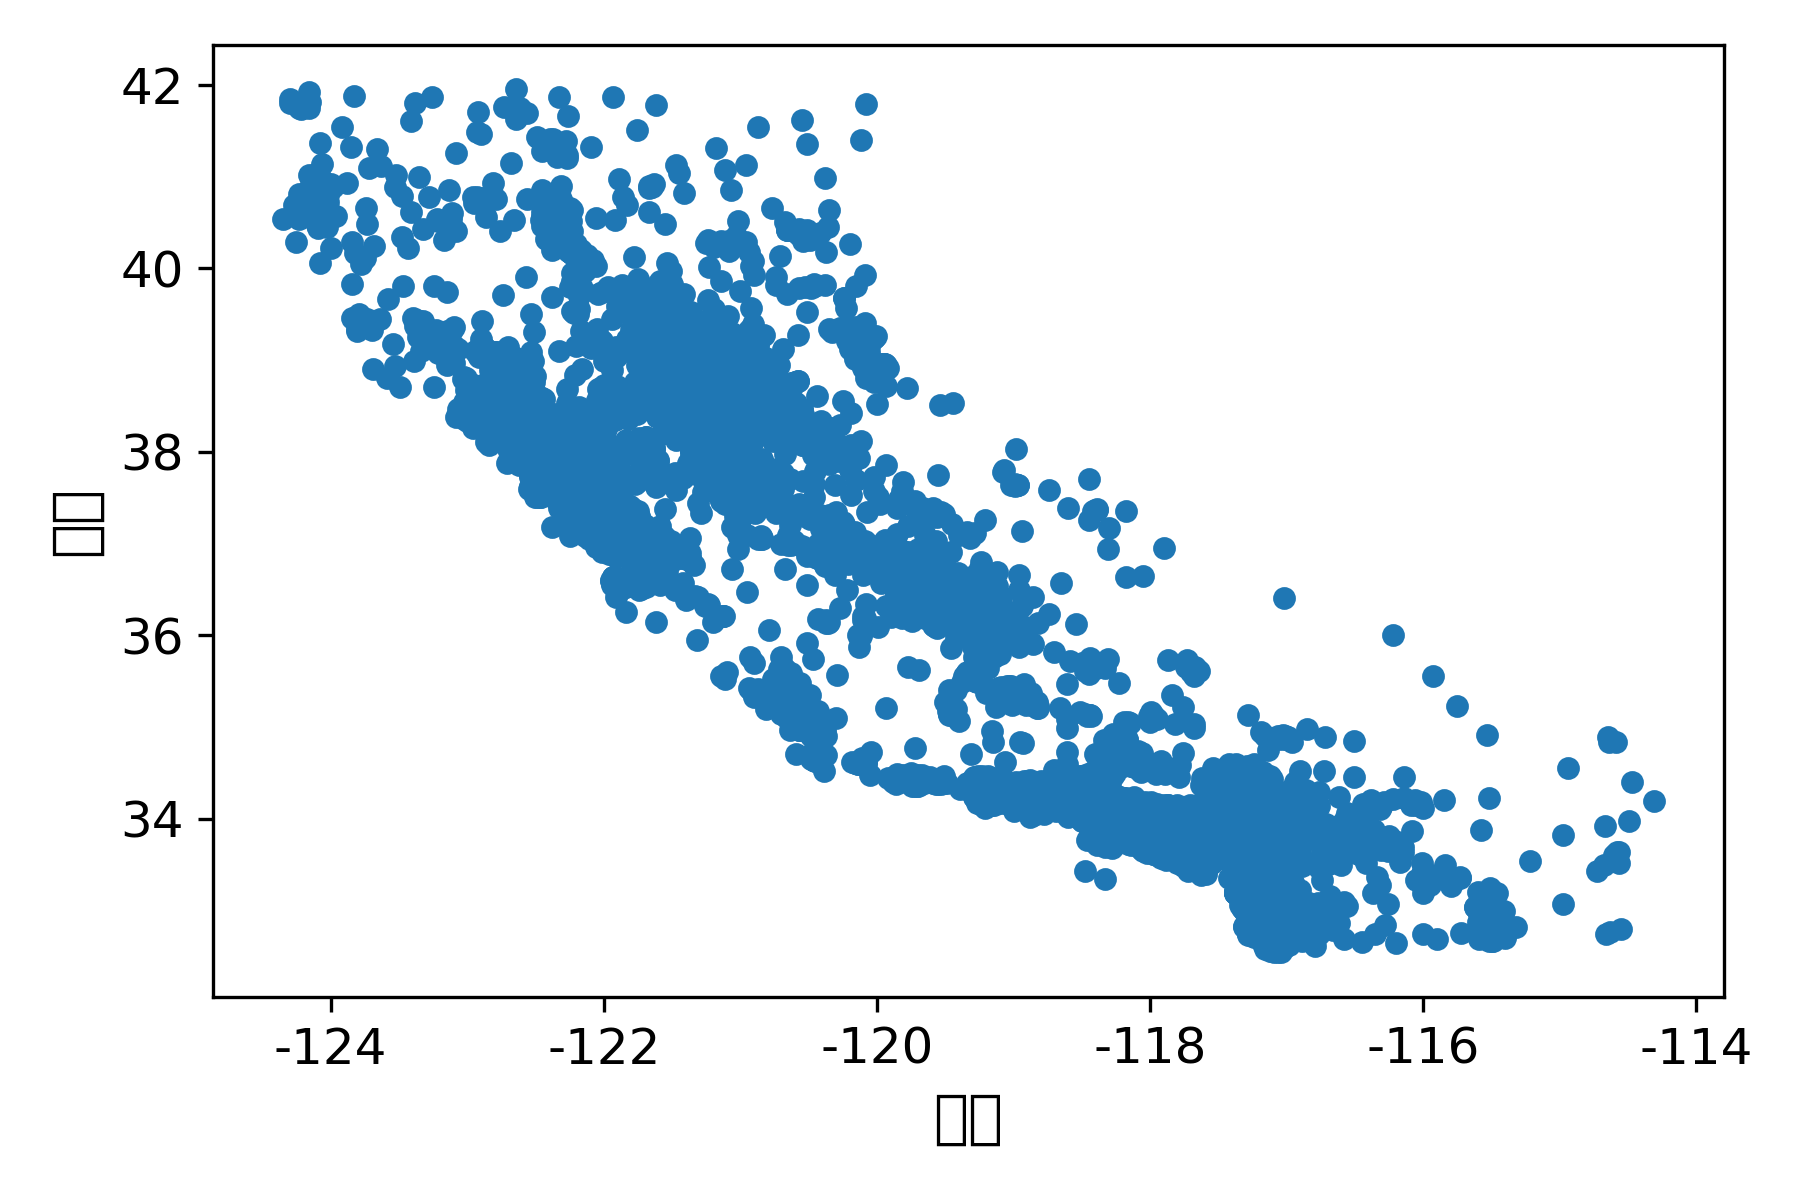
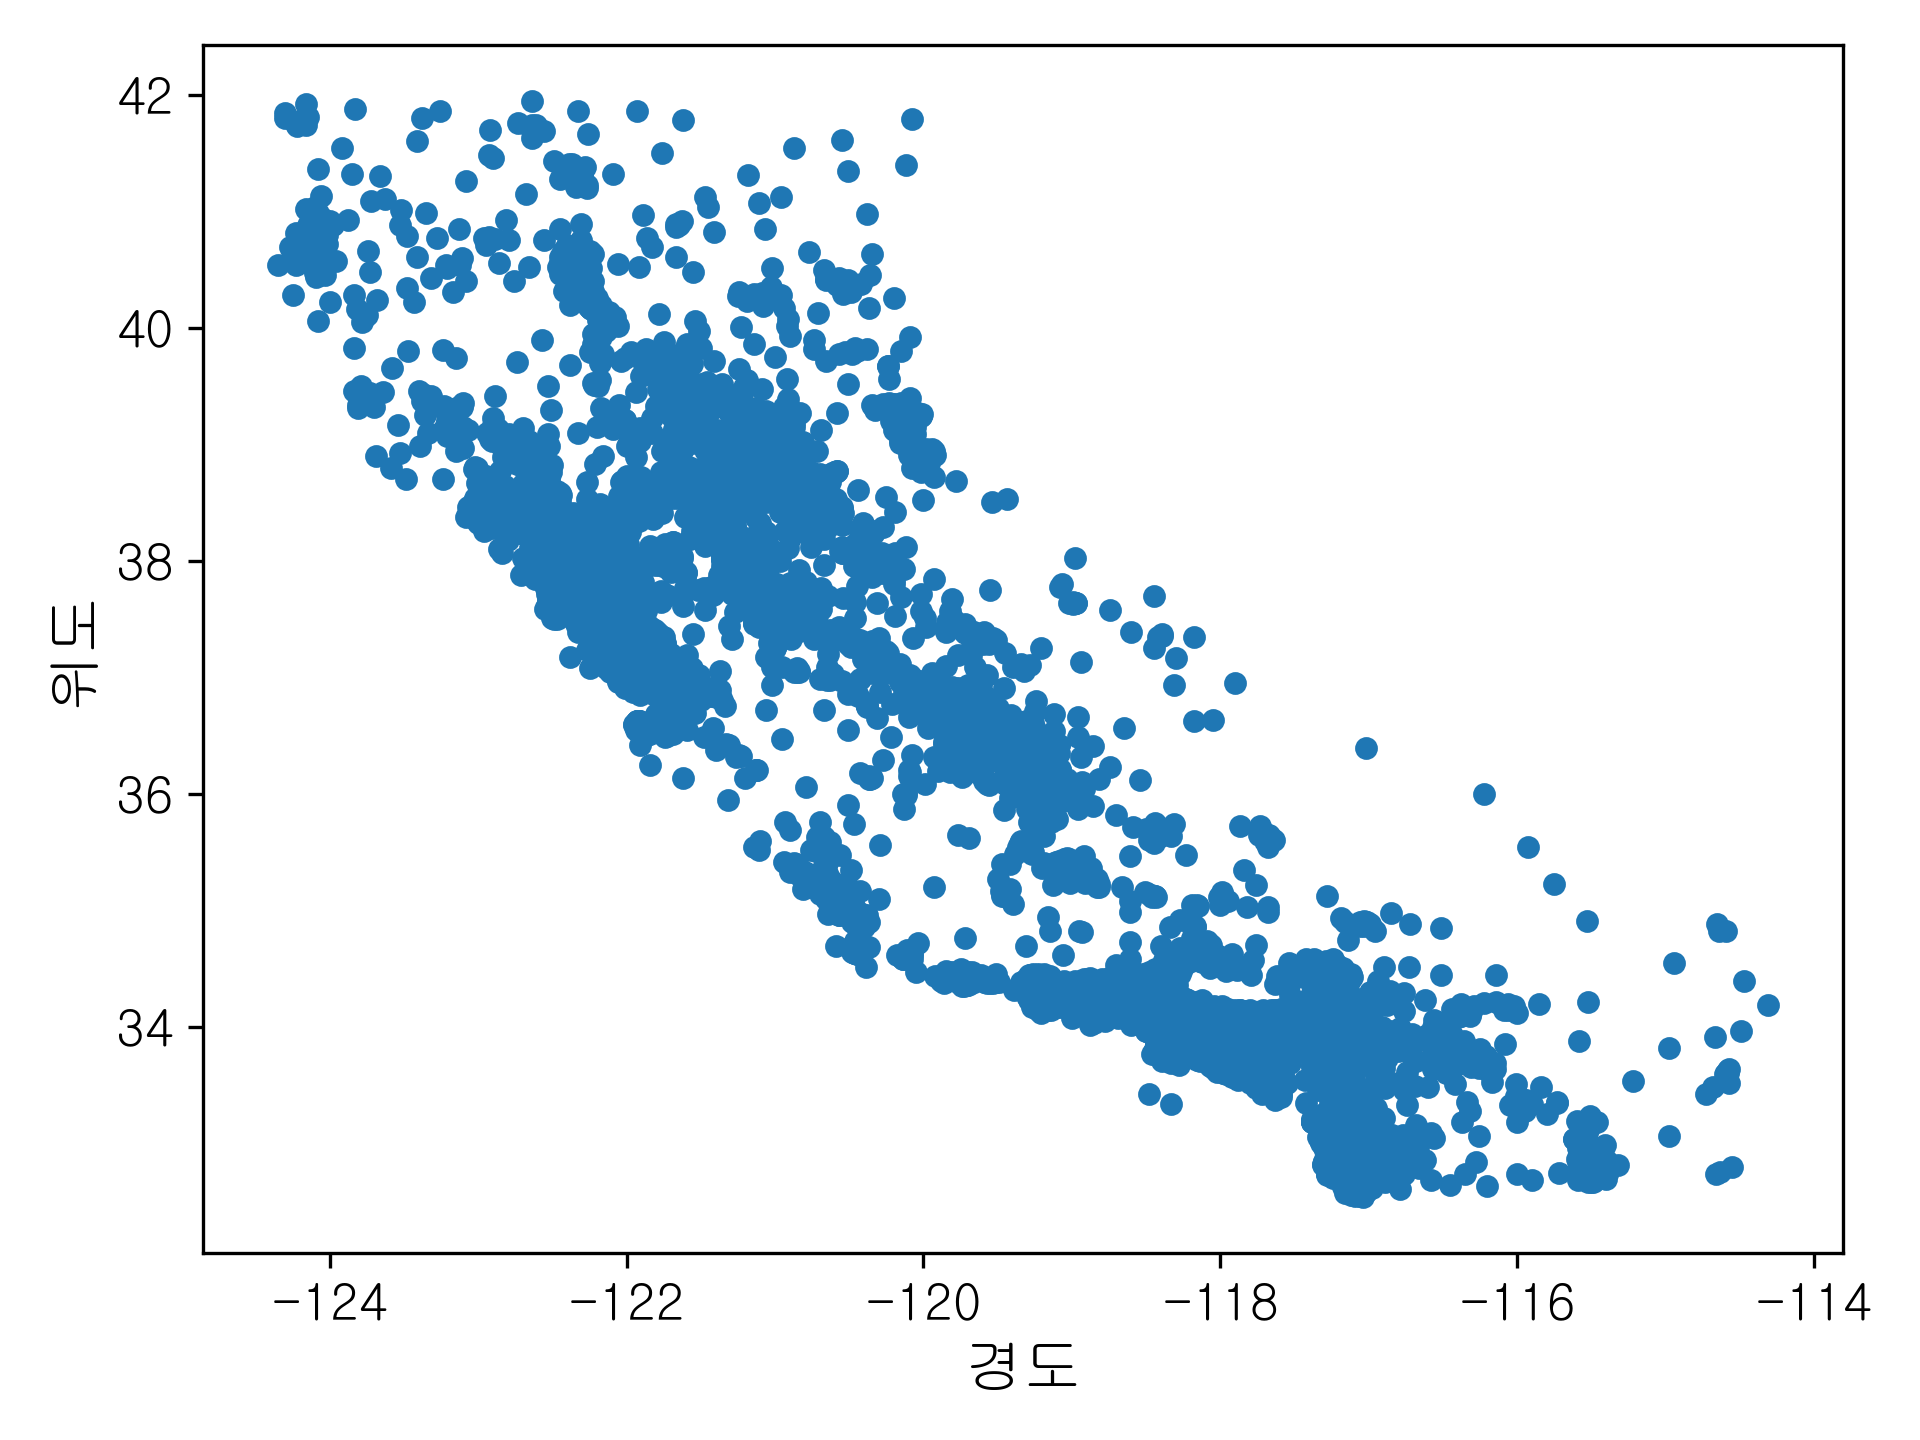
-2

diff --git a/0102.py b/0102.py
@@ -1,12 +1,10 @@
-import matplotlib as matplotlib
-
-
 # 파이썬 2와 파이썬 3 지원
-from __future__ import division, print_function, unicode_literals
+# from __future__ import division, print_function, unicode_literals
+
+import os
 
 # 공통
 import numpy as np
-import os
 
 # 일관된 출력을 위해 유사난수 초기화
 np.random.seed(42)
@@ -20,7 +18,7 @@ plt.rcParams['xtick.labelsize'] = 12
 plt.rcParams['ytick.labelsize'] = 12
 
 # 한글출력
-matplotlib.rc('font', family='gullim')
+matplotlib.rc('font', family='gulim')
 plt.rcParams['axes.unicode_minus'] = False
 
 # 그림을 저장할 폴드
@@ -74,7 +72,7 @@ import matplotlib.pyplot as plt
 housing.hist(bins=50, figsize=(20,15))
 save_fig("attribute_histogram_plots")
 plt.show()
-#그림 왜 안나오는지 아는사람?열받는다
+#그림 왜 안나오는지 아는사람?열받는다>>다시해보니 열린다 왜 열리는지 모르겠음
 
 # 데이터를 눈여겨보아 특성을 보기 전에 테스트, 즉 검증세트는 떼어놓고 들여댜보지 않기
 # 검증 세트 생성
@@ -125,8 +123,8 @@ housing["income_cat"].where(housing["income_cat"]<5,5.0, inplace=True)
 # >>>5이상은 5로 치환
 
 housing["income_cat"].value_counts()
-housing["income_cat"].hist()  #여전히 히스토그램 안생성되구요
-save_fig('income_category_hist')     #더 저장안돼
+housing["income_cat"].hist()  #여전히 히스토그램 안생성되구요>>팝업이 아니었나봄
+save_fig('income_category_hist')     #더 저장안돼>>저장돼
 
 from sklearn.model_selection import StratifiedShuffleSplit
 
@@ -291,7 +289,136 @@ housing_cat.head(10)
 housing_cat_encoded, housing_categories = housing_cat.factorize()
 housing_cat_encoded[:10]   #array([0, 0, 0, 1, 1, 1, 1, 2, 1, 1], dtype=int64)앞의 열놈 show
 
-# >>>판다스의 factorize가 해줬다고 하는데 .....믿고 그대로 쓰면되는건가?pd 안쓰나
-housing_categories[:10]
-#Index(['<1H OCEAN', 'INLAND', 'NEAR OCEAN', 'NEAR BAY', 'ISLAND'], dtype='object')
+from sklearn.preprocessing import OneHotEncoder
 
+encoder = OneHotEncoder(categories='auto')
+housing_cat_1hot = encoder.fit_transform(housing_cat_encoded.reshape(-1,1))
+housing_cat_1hot
+
+# ????????????????????????????????????????희소행렬임? 2차원 넘파이 배열로 바꾸어줘야함
+# 넘파이 배열로 바꾸기위해서 toarry
+housing_cat_1hot.toarray()
+
+# array([[1., 0., 0., 0., 0.],
+#        [1., 0., 0., 0., 0.],
+#        [1., 0., 0., 0., 0.],
+#        ...,
+#        [1., 0., 0., 0., 0.],
+#        [0., 1., 0., 0., 0.],
+#        [0., 1., 0., 0., 0.]])
+# github에서 가져오기 시작
+# [PR #9151](https://github.com/scikit-learn/scikit-learn/pull/9151)에서 가져온 CategoricalEncoder 클래스의 정의.
+# 이 클래스는 사이킷런 0.20에 포함될 예정입니다.
+
+from sklearn.base import BaseEstimator, TransformerMixin
+from sklearn.utils import check_array
+from sklearn.preprocessing import LabelEncoder
+from scipy import sparse
+
+
+class CategoricalEncoder(BaseEstimator, TransformerMixin):
+
+    def __init__(self, encoding='onehot', categories='auto', dtype=np.float64,
+                 handle_unknown='error'):
+        self.encoding = encoding
+        self.categories = categories
+        self.dtype = dtype
+        self.handle_unknown = handle_unknown
+
+    def fit(self, X, y=None):
+
+        if self.encoding not in ['onehot', 'onehot-dense', 'ordinal']:
+            template = ("encoding should be either 'onehot', 'onehot-dense' "
+                        "or 'ordinal', got %s")
+            raise ValueError(template % self.handle_unknown)
+
+        if self.handle_unknown not in ['error', 'ignore']:
+            template = ("handle_unknown should be either 'error' or "
+                        "'ignore', got %s")
+            raise ValueError(template % self.handle_unknown)
+
+        if self.encoding == 'ordinal' and self.handle_unknown == 'ignore':
+            raise ValueError("handle_unknown='ignore' is not supported for"
+                             " encoding='ordinal'")
+
+        X = check_array(X, dtype=np.object, accept_sparse='csc', copy=True)
+        n_samples, n_features = X.shape
+
+        self._label_encoders_ = [LabelEncoder() for _ in range(n_features)]
+
+        for i in range(n_features):
+            le = self._label_encoders_[i]
+            Xi = X[:, i]
+            if self.categories == 'auto':
+                le.fit(Xi)
+            else:
+                valid_mask = np.in1d(Xi, self.categories[i])
+                if not np.all(valid_mask):
+                    if self.handle_unknown == 'error':
+                        diff = np.unique(Xi[~valid_mask])
+                        msg = ("Found unknown categories {0} in column {1}"
+                               " during fit".format(diff, i))
+                        raise ValueError(msg)
+                le.classes_ = np.array(np.sort(self.categories[i]))
+
+        self.categories_ = [le.classes_ for le in self._label_encoders_]
+
+        return self
+
+    def transform(self, X):
+
+        X = check_array(X, accept_sparse='csc', dtype=np.object, copy=True)
+        n_samples, n_features = X.shape
+        X_int = np.zeros_like(X, dtype=np.int)
+        X_mask = np.ones_like(X, dtype=np.bool)
+
+        for i in range(n_features):
+            valid_mask = np.in1d(X[:, i], self.categories_[i])
+
+            if not np.all(valid_mask):
+                if self.handle_unknown == 'error':
+                    diff = np.unique(X[~valid_mask, i])
+                    msg = ("Found unknown categories {0} in column {1}"
+                           " during transform".format(diff, i))
+                    raise ValueError(msg)
+                else:
+                    # Set the problematic rows to an acceptable value and
+                    # continue `The rows are marked `X_mask` and will be
+                    # removed later.
+                    X_mask[:, i] = valid_mask
+                    X[:, i][~valid_mask] = self.categories_[i][0]
+            X_int[:, i] = self._label_encoders_[i].transform(X[:, i])
+
+        if self.encoding == 'ordinal':
+            return X_int.astype(self.dtype, copy=False)
+
+        mask = X_mask.ravel()
+        n_values = [cats.shape[0] for cats in self.categories_]
+        n_values = np.array([0] + n_values)
+        indices = np.cumsum(n_values)
+
+        column_indices = (X_int + indices[:-1]).ravel()[mask]
+        row_indices = np.repeat(np.arange(n_samples, dtype=np.int32),
+                                n_features)[mask]
+        data = np.ones(n_samples * n_features)[mask]
+
+        out = sparse.csc_matrix((data, (row_indices, column_indices)),
+                                shape=(n_samples, indices[-1]),
+                                dtype=self.dtype).tocsr()
+        if self.encoding == 'onehot-dense':
+            return out.toarray()
+        else:
+            return out
+    # git복사 끝
+
+    # from sklearn.preprocessing import CategoricalEncoder # Scikit-Learn 0.20에서 추가 예정
+
+    cat_encoder = CategoricalEncoder(encoding="onehot-dense")
+    housing_cat_reshaped = housing_cat.values.reshape(-1, 1)
+    housing_cat_1hot = cat_encoder.fit_transform(housing_cat_reshaped)
+    housing_cat_1hot
+
+cat_encoder.categories_
+
+housing_cat = housing[['ocean_proximity']]
+housing_cat.head(10)

diff --git a/req.py b/req.py
@@ -1,0 +1,101 @@
+# [PR #9151](https://github.com/scikit-learn/scikit-learn/pull/9151)에서 가져온 CategoricalEncoder 클래스의 정의.
+# 이 클래스는 사이킷런 0.20에 포함될 예정입니다.
+
+from sklearn.base import BaseEstimator, TransformerMixin
+from sklearn.utils import check_array
+from sklearn.preprocessing import LabelEncoder
+from scipy import sparse
+
+class CategoricalEncoder(BaseEstimator, TransformerMixin):
+
+    def __init__(self, encoding='onehot', categories='auto', dtype=np.float64,
+                 handle_unknown='error'):
+        self.encoding = encoding
+        self.categories = categories
+        self.dtype = dtype
+        self.handle_unknown = handle_unknown
+
+    def fit(self, X, y=None):
+
+        if self.encoding not in ['onehot', 'onehot-dense', 'ordinal']:
+            template = ("encoding should be either 'onehot', 'onehot-dense' "
+                        "or 'ordinal', got %s")
+            raise ValueError(template % self.handle_unknown)
+
+        if self.handle_unknown not in ['error', 'ignore']:
+            template = ("handle_unknown should be either 'error' or "
+                        "'ignore', got %s")
+            raise ValueError(template % self.handle_unknown)
+
+        if self.encoding == 'ordinal' and self.handle_unknown == 'ignore':
+            raise ValueError("handle_unknown='ignore' is not supported for"
+                             " encoding='ordinal'")
+
+        X = check_array(X, dtype=np.object, accept_sparse='csc', copy=True)
+        n_samples, n_features = X.shape
+
+        self._label_encoders_ = [LabelEncoder() for _ in range(n_features)]
+
+        for i in range(n_features):
+            le = self._label_encoders_[i]
+            Xi = X[:, i]
+            if self.categories == 'auto':
+                le.fit(Xi)
+            else:
+                valid_mask = np.in1d(Xi, self.categories[i])
+                if not np.all(valid_mask):
+                    if self.handle_unknown == 'error':
+                        diff = np.unique(Xi[~valid_mask])
+                        msg = ("Found unknown categories {0} in column {1}"
+                               " during fit".format(diff, i))
+                        raise ValueError(msg)
+                le.classes_ = np.array(np.sort(self.categories[i]))
+
+        self.categories_ = [le.classes_ for le in self._label_encoders_]
+
+        return self
+
+    def transform(self, X):
+
+        X = check_array(X, accept_sparse='csc', dtype=np.object, copy=True)
+        n_samples, n_features = X.shape
+        X_int = np.zeros_like(X, dtype=np.int)
+        X_mask = np.ones_like(X, dtype=np.bool)
+
+        for i in range(n_features):
+            valid_mask = np.in1d(X[:, i], self.categories_[i])
+
+            if not np.all(valid_mask):
+                if self.handle_unknown == 'error':
+                    diff = np.unique(X[~valid_mask, i])
+                    msg = ("Found unknown categories {0} in column {1}"
+                           " during transform".format(diff, i))
+                    raise ValueError(msg)
+                else:
+                    # Set the problematic rows to an acceptable value and
+                    # continue `The rows are marked `X_mask` and will be
+                    # removed later.
+                    X_mask[:, i] = valid_mask
+                    X[:, i][~valid_mask] = self.categories_[i][0]
+            X_int[:, i] = self._label_encoders_[i].transform(X[:, i])
+
+        if self.encoding == 'ordinal':
+            return X_int.astype(self.dtype, copy=False)
+
+        mask = X_mask.ravel()
+        n_values = [cats.shape[0] for cats in self.categories_]
+        n_values = np.array([0] + n_values)
+        indices = np.cumsum(n_values)
+
+        column_indices = (X_int + indices[:-1]).ravel()[mask]
+        row_indices = np.repeat(np.arange(n_samples, dtype=np.int32),
+                                n_features)[mask]
+        data = np.ones(n_samples * n_features)[mask]
+
+        out = sparse.csc_matrix((data, (row_indices, column_indices)),
+                                shape=(n_samples, indices[-1]),
+                                dtype=self.dtype).tocsr()
+        if self.encoding == 'onehot-dense':
+            return out.toarray()
+        else:
+            return out
